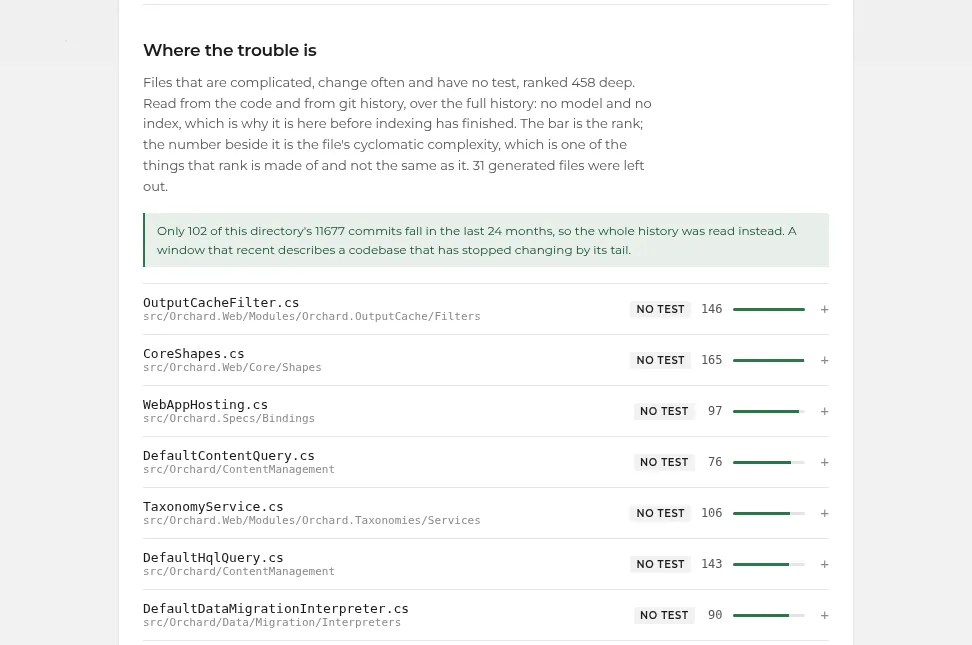
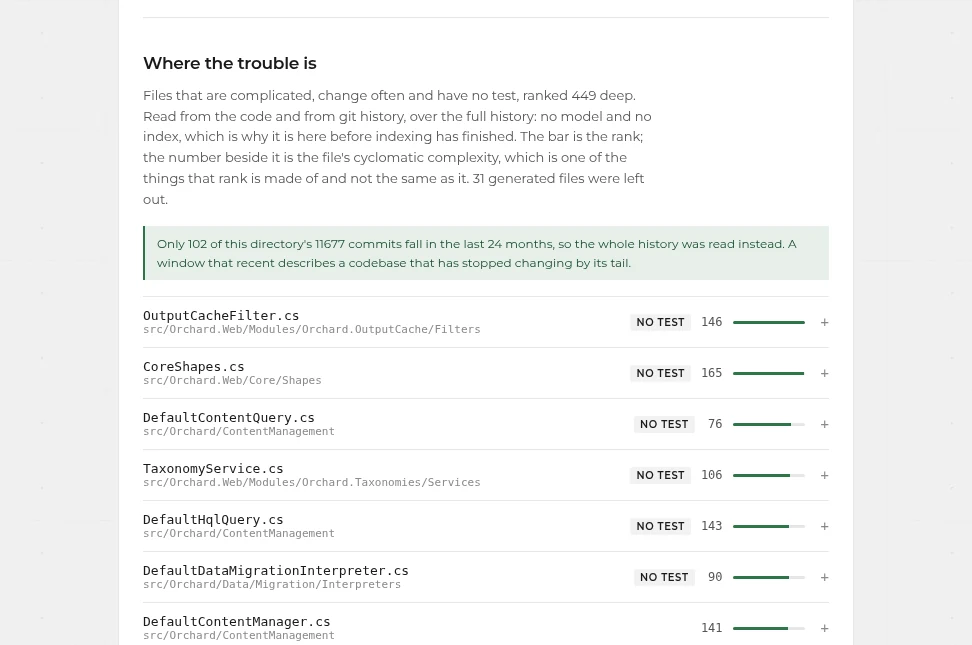
Count the same files on the screen as in the report
The report leaves out files inside test projects before ranking; the screen
did not. On the same Orchard commit the screen said 458 and the PDF 449, and
the public picture showed Orchard.Specs/Bindings/WebAppHosting.cs, a test
fixture, third among the files most likely to break.

The risk endpoint now applies the same filter, so both say 449 with
OutputCacheFilter.cs on top. The picture is retaken and the README table
loses the fixture.

diff --git a/tests/LegacyLens.Tests/AssessmentTests.cs b/tests/LegacyLens.Tests/AssessmentTests.cs
@@ -275,4 +275,25 @@ public class AssessmentTests : IDisposable
             }
             """;
     }
+
+    [Fact]
+    public void The_ranking_leaves_out_what_sits_inside_a_test_project()
+    {
+        Project("Shop", source: "public class Cart { }");
+        Project("Shop.Specs", assemblies: ["nunit.framework"],
+            source: "public class WebAppHosting { }");
+
+        var ranked = new RiskReport(
+            [Entry("Shop/Shop.cs"), Entry("Shop.Specs/Shop.Specs.cs")],
+            HistoryStatus.Available, null, 0);
+
+        var kept = Assessor.WithoutTestProjects(ranked, new ProjectGraph().Build(_root), _root);
+
+        // Support code for a test suite is not the product, whatever its name.
+        // The screen calls this too, so it and the report count the same files.
+        Assert.Equal(["Shop/Shop.cs"], kept.Entries.Select(e => e.Path));
+    }
+
+    private static RiskEntry Entry(string path) =>
+        new(path, 1, 1, 1, null, 1, 100, 1, 1, false, []);
 }

diff --git a/src/LegacyLens.Api/Program.cs b/src/LegacyLens.Api/Program.cs
@@ -984,11 +984,16 @@ app.MapPost("/api/risk", (RiskRequest request) =>
 
     try
     {
-        var report = new SolutionAnalysis
-        {
-            MinimumCodeLines = request.MinimumCodeLines,
-            HistoryMonths = request.HistoryMonths,
-        }.Analyse(request.Path);
+        // The same ranking the report prints, test projects left out, so the
+        // screen and the PDF count the same files.
+        var report = Assessor.WithoutTestProjects(
+            new SolutionAnalysis
+            {
+                MinimumCodeLines = request.MinimumCodeLines,
+                HistoryMonths = request.HistoryMonths,
+            }.Analyse(request.Path),
+            new ProjectGraph().Build(request.Path),
+            request.Path);
 
         return Results.Ok(new
         {

diff --git a/src/LegacyLens.Analysis/Assessment.cs b/src/LegacyLens.Analysis/Assessment.cs
@@ -233,8 +233,12 @@ public class Assessor
     /// Knowing which folders belong to a test project takes the project map,
     /// which the ranking never sees and this class does. That is the whole
     /// reason for composing them rather than printing them side by side.
+    ///
+    /// Public because the interface ranks files too, and a screen that counts
+    /// 458 next to a report that counts 449 on the same commit makes a reader
+    /// doubt both.
     /// </summary>
-    private static RiskReport WithoutTestProjects(
+    public static RiskReport WithoutTestProjects(
         RiskReport risk, SolutionMap map, string rootPath)
     {
         var testFolders = map.Projects

diff --git a/README.md b/README.md
@@ -210,13 +210,14 @@ Three signals, all already on disk: complexity from Roslyn's parser, change
 frequency from git, test coverage by naming convention. 1,731 files of
 nopCommerce ranked in 1.4 seconds over a two-year window.
 
-Orchard, 458 files ranked in under four seconds:
+Orchard, 449 files ranked in under four seconds, files inside test projects
+left out:
 
 | Score | File | Why |
 |---|---|---|
 | 1.23 | `Orchard.OutputCache/Filters/OutputCacheFilter.cs` | 705 lines, 82 commits by 24 authors, untested |
 | 1.23 | `Core/Shapes/CoreShapes.cs` | 866 lines, `Pager_Links` at complexity 34, 79 commits by 18 authors, untested |
-| 1.14 | `Orchard.Specs/Bindings/WebAppHosting.cs` | 442 lines, `WhenIFillIn` at complexity 19, nested 6 deep, untested |
+| 1.01 | `ContentManagement/DefaultContentQuery.cs` | 386 lines, nested 6 deep, 44 commits, untested |
 
 Two of those three are the core of the CMS, and 24 people have touched the first
 one. A cyclomatic complexity of 34 means covering that method's branches would
